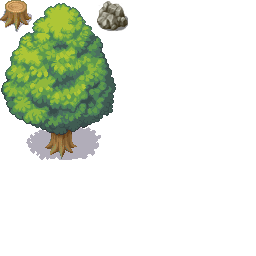
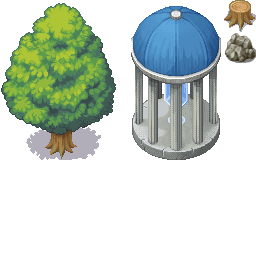
Working on Entities

Changed region(s): [[0.5, 0.0, 1.0, 0.625], [0.0, 0.0, 0.125, 0.125], [0.375, 0.0, 0.5, 0.125]]

diff --git a/src/de/dakror/villagedefense/game/world/World.java b/src/de/dakror/villagedefense/game/world/World.java
@@ -1,11 +1,14 @@
 package de.dakror.villagedefense.game.world;
 
 import java.awt.Graphics2D;
+import java.awt.Point;
 import java.util.ArrayList;
+import java.util.Collections;
+import java.util.Comparator;
 
 import de.dakror.villagedefense.game.Game;
-import de.dakror.villagedefense.game.block.Tile;
 import de.dakror.villagedefense.game.entity.Entity;
+import de.dakror.villagedefense.game.entity.Struct;
 import de.dakror.villagedefense.util.Drawable;
 
 /**
@@ -19,7 +22,7 @@ public class World implements Drawable
 	
 	Chunk[][] chunks;
 	
-	ArrayList<Entity> entities = new ArrayList<>();
+	public ArrayList<Entity> entities = new ArrayList<>();
 	
 	public World()
 	{
@@ -31,6 +34,8 @@ public class World implements Drawable
 		for (int i = 0; i < chunks.length; i++)
 			for (int j = 0; j < chunks[0].length; j++)
 				chunks[i][j] = new Chunk(i, j);
+		
+		generate();
 	}
 	
 	@Override
@@ -40,6 +45,27 @@ public class World implements Drawable
 		for (int i = 0; i < chunks.length; i++)
 			for (int j = 0; j < chunks[0].length; j++)
 				chunks[i][j].draw(g);
+		
+		ArrayList<Entity> sorted = (ArrayList<Entity>) entities.clone();
+		Collections.sort(sorted, new Comparator<Entity>()
+		{
+			@Override
+			public int compare(Entity o1, Entity o2)
+			{
+				return o1.getY() - o2.getY();
+			}
+		});
+		
+		for (Entity e : sorted)
+			e.draw(g);
+	}
+	
+	public void generate()
+	{
+		int x = (int) Math.floor(width / 2f) - 1;
+		int y = (int) Math.floor(height / 2f) - 3;
+		
+		entities.add(new Struct(x, y, 3, 4, new Point(0, 4)));
 	}
 	
 	@Override

diff --git a/src/de/dakror/villagedefense/game/entity/Struct.java b/src/de/dakror/villagedefense/game/entity/Struct.java
@@ -4,7 +4,7 @@ import java.awt.Graphics2D;
 import java.awt.Point;
 
 import de.dakror.villagedefense.game.Game;
-import de.dakror.villagedefense.game.block.Tile;
+import de.dakror.villagedefense.game.world.Tile;
 
 /**
  * @author Dakror
@@ -22,6 +22,7 @@ public class Struct extends Entity
 	@Override
 	public void draw(Graphics2D g)
 	{
+		CFG.p("hi");
 		g.drawImage(Game.getImage("structs.png"), x, y, x + width, y + height, texturePoint.x, texturePoint.y, texturePoint.x + width, texturePoint.y + height, Game.w);
 	}
 	

diff --git a/src/de/dakror/villagedefense/game/world/Chunk.java b/src/de/dakror/villagedefense/game/world/Chunk.java
@@ -4,7 +4,6 @@ import java.awt.Graphics2D;
 import java.awt.image.BufferedImage;
 
 import de.dakror.villagedefense.game.Game;
-import de.dakror.villagedefense.game.block.Tile;
 
 /**
  * @author Dakror

diff --git a/src/de/dakror/villagedefense/game/world/Tile.java b/src/de/dakror/villagedefense/game/world/Tile.java
@@ -1,4 +1,4 @@
-package de.dakror.villagedefense.game.block;
+package de.dakror.villagedefense.game.world;
 
 import java.awt.Point;
 
